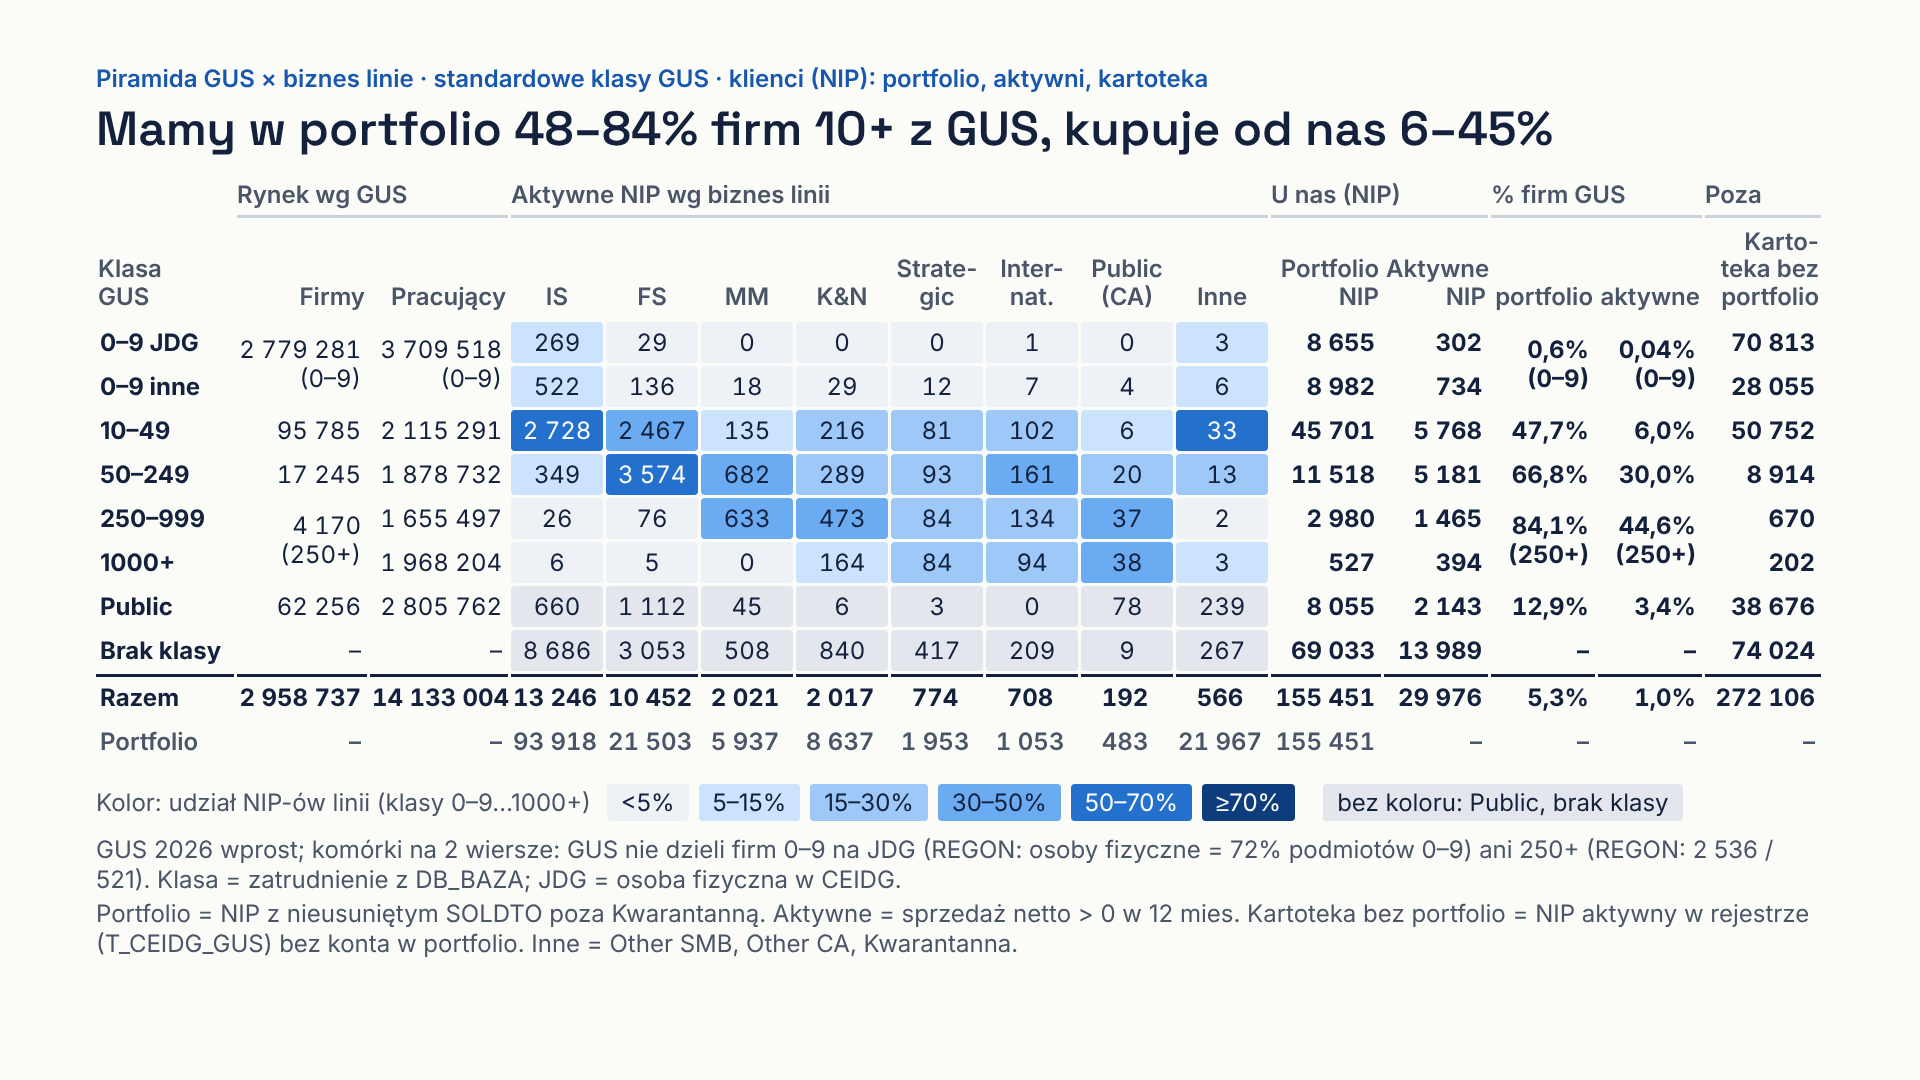
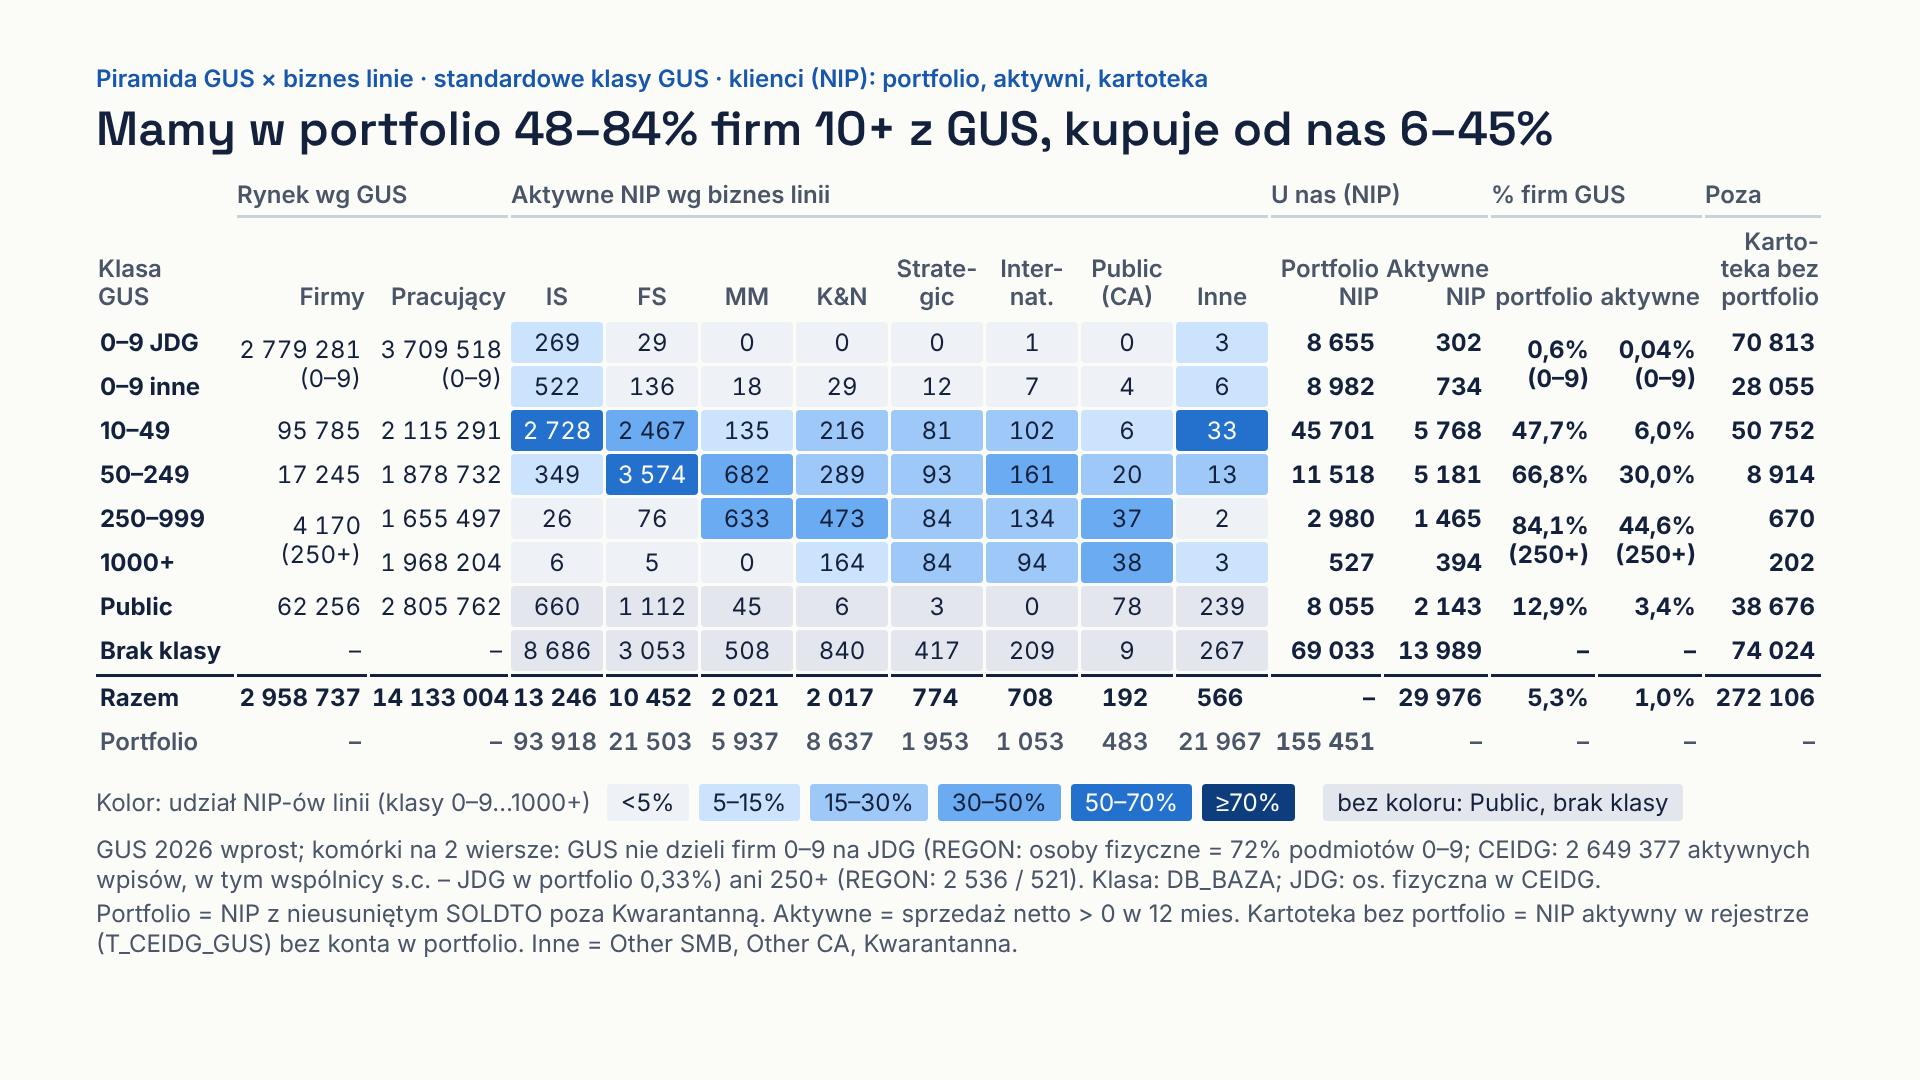
Slajd GUS x biznes linie: punkt odniesienia CEIDG dla JDG (2 649 377 aktywnych wpisow)
Claude-Session: https://claude.ai/code/session_01XKqyymM4iGumhJbEjTSpGW

Changed region(s): [[0.0312, 0.7639, 0.9375, 0.825], [0.6562, 0.6417, 0.7188, 0.6722]]

diff --git a/piramida_klientow/prezentacja/slajd_gus_x_biznes_linie/slides/macierz.html b/piramida_klientow/prezentacja/slajd_gus_x_biznes_linie/slides/macierz.html
@@ -166,7 +166,7 @@
 <p class="suma razem-c">708</p>
 <p class="suma razem-c">192</p>
 <p class="suma razem-c">566</p>
-<p class="suma razem">155 451</p>
+<p class="suma razem">–</p>
 <p class="suma razem">29 976</p>
 <p class="suma razem">5,3%</p>
 <p class="suma razem">1,0%</p>
@@ -183,7 +183,7 @@
 <p class="suma port-c">1 053</p>
 <p class="suma port-c">483</p>
 <p class="suma port-c">21 967</p>
-<p class="suma port">155 451</p>
+<p class="suma port" style="font-weight:700">155 451</p>
 <p class="suma port">–</p>
 <p class="suma port">–</p>
 <p class="suma port">–</p>
@@ -199,9 +199,11 @@
 <p class="chip h5">≥70%</p>
 <p class="chip pub chip-pub">bez koloru: Public, brak klasy</p>
 </div>
-<p class="przypis">GUS 2026 wprost; komórki na 2 wiersze: GUS nie dzieli firm 0–9 na JDG (REGON: osoby fizyczne = 72% podmiotów 0–9) ani 250+ (REGON: 2 536 / 521). Klasa = zatrudnienie z DB_BAZA; JDG = osoba fizyczna w CEIDG.</p>
+<p class="przypis">GUS 2026 wprost; komórki na 2 wiersze: GUS nie dzieli firm 0–9 na JDG (REGON: osoby fizyczne = 72% podmiotów 0–9; CEIDG: 2 649 377 aktywnych wpisów, w tym wspólnicy s.c. – JDG w portfolio 0,33%) ani 250+ (REGON: 2 536 / 521). Klasa: DB_BAZA; JDG: os. fizyczna w CEIDG.</p>
 <p class="przypis">Portfolio = NIP z nieusuniętym SOLDTO poza Kwarantanną. Aktywne = sprzedaż netto &gt; 0 w 12 mies. Kartoteka bez portfolio = NIP aktywny w rejestrze (T_CEIDG_GUS) bez konta w portfolio. Inne = Other SMB, Other CA, Kwarantanna.</p>
 <aside>Lewa strona to rynek wprost z GUS, w standardowych klasach wielkości. GUS nie dzieli przedsiębiorstw aktywnych 0–9 na JDG i pozostałe, a 250+ podaje łącznie – dlatego te komórki obejmują dwa wiersze; podział z REGON jest w przypisie.
+
+Punkt odniesienia dla JDG: w CEIDG jest 2 649 377 aktywnych wpisów (osoby fizyczne, także wspólnicy spółek cywilnych – jedna spółka może dać kilka wpisów; spółki z o.o., akcyjne i jawne są w KRS). Wobec tej liczby mamy w portfolio 0,33% JDG (8 655), a kupuje od nas 0,01% (302). Znamy łącznie ok. 79 tys. JDG (portfolio 8 655 + kartoteka 70 813), czyli ok. 3% CEIDG. Źródło liczby: outreachpilot.pl/firmy, powołuje się na CEIDG.
 
 Środek to aktywne NIP-y według biznes linii (region głównego SOLDTO), kolor to udział w linii. Wiersz Portfolio pod spodem pokazuje, ile NIP-ów każda linia ma w kartotece.
 
